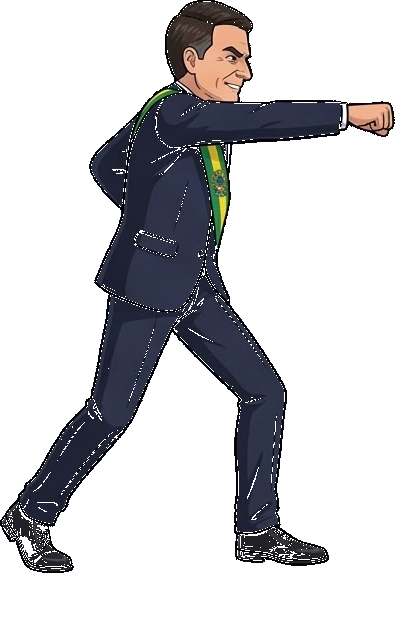
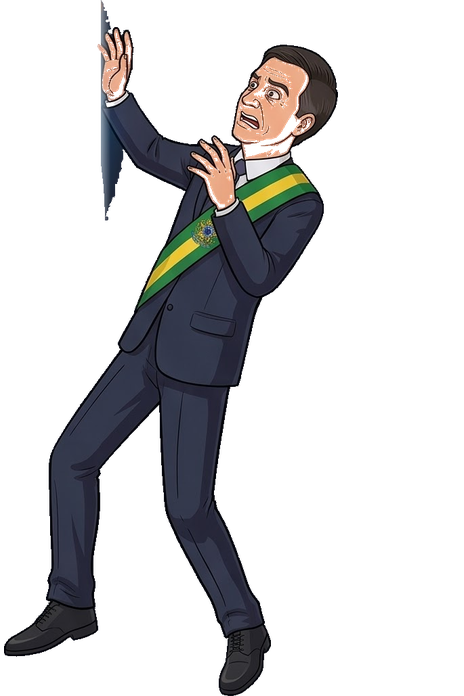
fix: elenco com 2 personagens (LULA e BOLSONARO) e poses repetidas corrigidas
- scripts/game.gd: P1_ROSTER de 3 para 2 entradas (faixa=BOLSONARO, azul=LULA); remove o terceiro lutador, que so tinha idle.png e repetia a pose em todos os estados.
- assets/characters/faixa/special.png: nova pose de especial (antes era copia identica de heavy.png), gerada por tools/make_faixa_special.py a partir de presidente/idle.png espelhada.
- scenes/hud.tscn: textos do HUD (P1: BOLSONARO, P1 - BOLSONARO, P2 - LULA).
- README.md: secao Personagens, tabela de controles completa, estrutura de arquivos corrigida e link para MUDANCAS.md.
- MUDANCAS.md: relato do que foi feito nesta atualizacao.

diff --git a/tools/make_faixa_special.py b/tools/make_faixa_special.py
@@ -1,0 +1,126 @@
+"""Gera assets/characters/faixa/special.png.
+
+O set `faixa` nasceu com as 10 poses das folhas de referencia, sem pose de
+especial; antes o special.png era copia byte a byte do heavy.png (pose
+repetida). A unica arte extra do mesmo personagem e assets/characters/
+presidente/idle.png, entao este script espelha (o set `faixa` olha para a
+direita), recorta, reescal para a mesma altura de corpo do set e ancora nos
+pes, igual a slice_poses.py.
+"""
+
+import os
+from collections import deque
+
+from PIL import Image
+
+BASE = os.path.dirname(os.path.dirname(os.path.abspath(__file__)))
+SRC = os.path.join(BASE, "assets", "characters", "presidente", "idle.png")
+DST = os.path.join(BASE, "assets", "characters", "faixa", "special.png")
+
+# Altura cabeca->pes das poses em pe do set faixa (idle tem 652 px).
+TARGET_BODY = 645.0
+# Folga lateral para o braco levantado nao ficar colado na borda.
+PAD_X = 4
+
+
+def alpha_mask(im):
+    w, h = im.size
+    px = im.load()
+    return [[px[x, y][3] > 128 for x in range(w)] for y in range(h)]
+
+
+def drop_strays(im, min_area=300):
+    """Forca o maior componente (o corpo) e descarta brilho/ruido solto."""
+    w, h = im.size
+    mask = alpha_mask(im)
+    seen = [[False] * w for _ in range(h)]
+    keep = [[False] * w for _ in range(h)]
+    best = []
+    for sy in range(h):
+        for sx in range(w):
+            if mask[sy][sx] and not seen[sy][sx]:
+                q = deque([(sx, sy)])
+                seen[sy][sx] = True
+                comp = []
+                while q:
+                    x, y = q.popleft()
+                    comp.append((x, y))
+                    for nx, ny in ((x - 1, y), (x + 1, y), (x, y - 1), (x, y + 1)):
+                        if 0 <= nx < w and 0 <= ny < h and mask[ny][nx] and not seen[ny][nx]:
+                            seen[ny][nx] = True
+                            q.append((nx, ny))
+                if len(comp) >= min_area and len(comp) > len(best):
+                    best = comp
+    if best:
+        for x, y in best:
+            keep[y][x] = True
+        px = im.load()
+        for y in range(h):
+            for x in range(w):
+                if not keep[y][x]:
+                    px[x, y] = (0, 0, 0, 0)
+    return im
+
+
+def runs(row):
+    out, start = [], None
+    for x, on in enumerate(row):
+        if on and start is None:
+            start = x
+        elif not on and start is not None:
+            out.append((start, x - 1))
+            start = None
+    if start is not None:
+        out.append((start, len(row) - 1))
+    return out
+
+
+def head_top(mask, min_width=70):
+    """Primeira linha com um traco largo de corpo (descarta braco e brilho)."""
+    for y, row in enumerate(mask):
+        if any(row) and max(b - a + 1 for a, b in runs(row)) >= min_width:
+            return y
+    return 0
+
+
+def shoe_anchor(mask, y0, y1):
+    """Centro dos pes: conteudo das ultimas 8% das linhas (igual slice_poses.py)."""
+    band = max(6, int((y1 - y0 + 1) * 0.08))
+    xs = [x for y in range(max(y0, y1 - band + 1), y1 + 1) for x, on in enumerate(mask[y]) if on]
+    if not xs:
+        xs = [x for y in range(y0, y1 + 1) for x, on in enumerate(mask[y]) if on]
+    return (min(xs) + max(xs)) / 2.0
+
+
+def main() -> None:
+    im = drop_strays(Image.open(SRC).convert("RGBA"))
+    w, h = im.size
+    mask = alpha_mask(im)
+
+    art_top = min(y for y in range(h) if any(mask[y]))
+    body_top = head_top(mask)
+    body_bottom = max(y for y in range(h) if any(mask[y]))
+    left = min(x for y in range(h) for x, on in enumerate(mask[y]) if on)
+    right = max(x for y in range(h) for x, on in enumerate(mask[y]) if on)
+
+    scale = TARGET_BODY / float(body_bottom - body_top + 1)
+    new_w = max(1, int(round((right - left + 1) * scale)))
+    new_h = max(1, int(round((h - art_top) * scale)))
+    im = im.crop((left, art_top, right + 1, h)).transpose(Image.FLIP_LEFT_RIGHT)
+    im = im.resize((new_w, new_h), Image.LANCZOS)
+
+    mask = alpha_mask(im)
+    body_bottom = max(y for y in range(new_h) if any(mask[y]))
+    anchor = shoe_anchor(mask, max(0, body_bottom - int(new_h * 0.08)), body_bottom)
+
+    half = int(max(anchor, new_w - anchor) + PAD_X)
+    canvas = Image.new("RGBA", (half * 2, new_h), (0, 0, 0, 0))
+    canvas.paste(im, (int(round(half - anchor)), 0))
+    canvas.save(DST)
+
+    print("src=%dx%d body=%d..%d scale=%.3f -> %s %dx%d"
+          % (w, h, body_top, body_bottom, scale, DST, canvas.size[0], canvas.size[1]))
+
+
+if __name__ == "__main__":
+    main()

diff --git a/README.md b/README.md
@@ -10,10 +10,29 @@ a partir de **um único código**:
 Os três presets de exportação já vêm configurados em `export_presets.cfg`.
 
 Estado atual: partida local (2 jogadores no teclado/gamepad ou vs CPU), com barras de
-vida, rounds (melhor de 3), bloqueio, golpes leve/forte, hitstun, knockback, feedback de
-impacto (hitstop, flash e faísca) e botões de toque para Android. A arte usa PNGs
-recortados das fotos por pose (`assets/characters/faixa` e `azul`); os polígonos
-continuam como fallback quando `art_set` está vazio.
+vida, rounds (melhor de 3), agachar, bloqueio, golpes leve/forte/especial, hitstun,
+knockback, feedback de impacto (hitstop, flash e faísca) e botões de toque para Android.
+
+> **Novidade (13/11/2026):** elenco corrigido para **dois** lutadores — **LULA** e
+> **BOLSONARO** — e pose repetida resolvida. Detalhes em [`MUDANCAS.md`](MUDANCAS.md).
+
+## Personagens
+
+O jogo tem **dois** personagens:
+
+| Lutador | Pasta de arte | Aparece como |
+|---------|---------------|--------------|
+| **BOLSONARO** | `assets/characters/faixa` | P1 (padrão) |
+| **LULA** | `assets/characters/azul` | P2 (padrão) |
+
+- O botão **`P1: BOLSONARO`** no canto superior esquerdo alterna o P1 entre os dois;
+  o nome atualizado também aparece no rótulo `P1 - ...`.
+- Cada lutador tem 11 poses em PNG (`idle`, `walk`, `jump`, `light`, `heavy`,
+  `launcher`, `special`, `hit`, `block`, `knockdown`, `ko`), recortadas das fotos em
+  `assets/characters/referencia` e ancoradas nos pés. Os polígonos continuam como
+  fallback quando `art_set` está vazio.
+- A física de cada um vem de `data/characters.json` (perfis `ryu` para o P1 e `ken`
+  para o P2); a pasta de arte define só a aparência.
 
 ## Requisitos
 
@@ -28,16 +47,21 @@ e rode com **F5**. Cena principal: `scenes/main.tscn`.
 
 ## Controles
 
-| Ação        | Player 1        | Player 2        |
-|-------------|-----------------|-----------------|
-| Mover       | `A` / `D`       | `←` / `→`       |
-| Pular       | `W`             | `↑`             |
-| Golpe leve  | `F`             | `K`             |
-| Golpe forte | `G`             | `L`             |
+| Ação         | Player 1        | Player 2        |
+|--------------|-----------------|-----------------|
+| Mover        | `A` / `D`       | `←` / `→`       |
+| Agachar      | `S`             | `↓`             |
+| Pular        | `W`             | `↑`             |
+| Golpe leve   | `F`             | `K`             |
+| Golpe forte  | `G`             | `L`             |
+| Especial¹    | `H`             | `;`             |
+| Trocar P1    | botão `P1: ...` | —               |
+
+¹ Especial gasta barra de energia e dispara um projetil.
 
 - **Bloqueio**: segure a direção oposta ao oponente (para trás) enquanto está no chão.
-- **Gamepad**: P1 = controle 0, P2 = controle 1. Analógico/DPad move, `A` pula,
-  `X` leve, `Y` forte.
+- **Gamepad**: P1 = controle 0, P2 = controle 1. Analógico/DPad move e agacha,
+  `A` pula, `X` leve, `Y` forte, `B` especial.
 - **CPU**: botão `CPU: OFF/ON` no canto superior esquerdo liga a IA no P2.
 - **Toque (Android/móvel)**: os botões aparecem automaticamente quando há touchscreen;
   controlam o P1.
@@ -47,26 +71,36 @@ e rode com **F5**. Cena principal: `scenes/main.tscn`.
 ```
 project.godot            configuração (viewport 1280x720, física 60 Hz, autoload)
 scenes/
-  main.tscn              arena + chão/paredes + jogadores + HUD
+  main.tscn              arena + chão/paredes + jogadores (P1 faixa, P2 azul) + HUD
   fighter.tscn           lutador (corpo, colisão, polígonos)
-  hud.tscn               barras de vida, placar, CPU, botões de toque
+  hud.tscn               barras de vida, placar, nomes, CPU, botões de toque
 scripts/
-  game.gd                rounds, placar, posicionamento, separação de corpos
+  game.gd                rounds, placar, elenco do P1, posicionamento, separação
   fighter.gd             máquina de estados, física, ataques, hitboxes/hurtbox, IA
+  fight_physics.gd       constantes compartilhadas: ATTACKS, juggle, wall splat
+  character_visual.gd    rig de polígonos + sprites por pose (assets/characters)
+  character_db.gd        perfis de física carregados de data/characters.json
   hud.gd                 atualização de HUD e input dos botões de toque
   input_bridge.gd        input unificado: teclado + gamepad + toque
+  projectile.gd          projetil do golpe especial
+tools/
+  slice_poses.py         fatia as fotos de referencia/ nas poses
+  make_faixa_special.py  gera a pose `special` do Bolsonaro
+MUDANCAS.md              o que mudou em cada atualização
 ```
 
 ## Ajustar o jogo de luta
 
-Os dados de golpe ficam em `scripts/fighter.gd` na constante `ATTACKS`:
+Os dados de golpe ficam em `scripts/fight_physics.gd` na constante `ATTACKS`
+(consultada por `scripts/fighter.gd`):
 
 ```gdscript
+# scripts/fight_physics.gd
 const ATTACKS := {
-    "light": { "startup": 0.055, "active": 0.070, "recovery": 0.130,
+    "light": { "startup": 0.050, "active": 0.067, "recovery": 0.133,
                "damage": 6, "box": Vector2(64, 34), "offset": Vector2(42, -62),
-               "knock": Vector2(170, -60), "hitstun": 0.22, "hitstop": 0.05 },
-    # ...
+               "knock": Vector2(336, 0), "hitstun": 0.2, "hitstop": 0.10 },
+    # "heavy", "launcher", "crouch_light", "air_light", "air_heavy", "special"...
 }
 ```
 
@@ -158,7 +192,9 @@ Observações:
 ## Limitações atuais / próximos passos
 
 - Sprites estáticos por pose já integrados (PNG recortado, origem nos pés); falta
-  animação/spritesheet, cenário e mais personagens.
+  animação/spritesheet e cenário. Para acrescentar um terceiro lutador: nova pasta em
+  `assets/characters/<nome>` com as 11 poses + uma entrada em `P1_ROSTER`
+  (`scripts/game.gd`).
 - Fatiador reprodutível em `tools/slice_poses.py` (usa as fotos de `assets/characters/referencia`).
 - Sem áudio ainda.
 - Sem golpes especiais por comando (motion inputs como ↓↘→ + golpe).
@@ -166,6 +202,11 @@ Observações:
   entra depois, e é bem mais complexo).
 - Para 2 jogadores no mesmo celular, o ideal é gamepad Bluetooth; os botões de toque
   atuais controlam só o P1.
+
+## Histórico de mudanças
+
+Cada atualização está descrita em [`MUDANCAS.md`](MUDANCAS.md) — incluindo a correção
+do elenco (2 personagens: LULA e BOLSONARO) e das poses repetidas.
 
 ## Licença
 

diff --git a/MUDANCAS.md b/MUDANCAS.md
@@ -1,0 +1,73 @@
+# Mudanças — 13/11/2026
+
+Relato do que foi feito **agora** nesta atualização do **A Última Urna**.
+
+## Problema relatado
+
+> "Tem 3 personagens. Um deles está com a pose repetida e era para ter só dois.
+> O azul se chama Bolsonaro, o outro é o Lula."
+
+Depois de confirmar a preferência, ficou definido: **azul = LULA** e **faixa = BOLSONARO**
+(é o que a arte mostra na tela: a pasta `azul` tem o personagem de cabelo branco e
+terno azul; a pasta `faixa` tem o personagem com a faixa presidencial).
+
+## O que estava errado
+
+1. **Três personagens no elenco.** `scripts/game.gd` tinha `P1_ROSTER` com três
+   entradas: `FAIXA`, `AZUL` e `PRESIDENTE`. O terceiro (`assets/characters/presidente`)
+   só possuía **um** arquivo de arte (`idle.png`), então o código caía no `idle` para
+   **todas** as poses — era ele que aparecia "com a pose repetida".
+2. **Pose repetida também no Bolsonaro.** `assets/characters/faixa/special.png` era
+   **cópia byte a byte** de `faixa/heavy.png` (mesmo SHA256 `F7B89CD104AB…`), ou seja,
+   o golpe especial mostrava a arte do golpe forte.
+3. **HUD desatualizado.** `scenes/hud.tscn` mostrava `P1: FAIXA`, `P1 - PLAYER 1` e
+   `PLAYER 2`.
+
+## O que foi alterado
+
+| Arquivo | Mudança |
+|---------|---------|
+| `scripts/game.gd` | `P1_ROSTER` reduzido de 3 para **2** entradas: `BOLSONARO` (arte `faixa`, índice 0 = P1 inicial) e `LULA` (arte `azul`). Comentário explicando a relação pasta ↔ personagem. |
+| `scenes/hud.tscn` | Textos padrão: botão `P1: BOLSONARO`, rótulo `P1 - BOLSONARO` e `P2 - LULA`. |
+| `assets/characters/faixa/special.png` | **Nova pose de especial** gerada a partir da arte não usada `assets/characters/presidente/idle.png`, espelhada para olhar à direita como o resto do set, na mesma escala do conjunto (corpo ~645 px vs 652 px do `idle`), ancorada nos pés e com ruído pequeno removido. |
+| `tools/make_faixa_special.py` | Script reexecutável que regenera a pose acima (usa PIL/numpy). |
+| `README.md` | Nova seção **Personagens**, tabela de controles completa (agachar/especial/gamepad), estrutura de arquivos corrigida e link para este arquivo. |
+| `MUDANCAS.md` | Este arquivo. |
+
+Arquivos **não** alterados de propósito:
+
+- `assets/characters/presidente/` e o perfil `presidente` em `data/characters.json`
+  continuam no projeto (fora do elenco). São a fonte da pose do especial e podem virar
+  um terceiro lutador no futuro.
+- Nenhum `.import` foi criado à mão: o Godot gera o do PNG novo na primeira abertura.
+
+## Verificações feitas
+
+- **Elenco**: `scenes/main.tscn` tem apenas dois nós `Fighter` (P1 com arte `faixa`,
+  P2 com arte `azul`) e `P1_ROSTER` tem duas entradas — trocar de personagem no botão
+  só alterna entre BOLSONARO e LULA.
+- **Sem poses duplicadas**: os 22 PNGs (11 poses × 2 lutadores) têm SHA256 todos
+  distintos e nenhuma par de poses de mesmo conjunto chega a IoU 0,90 na silhueta.
+- **Escala/ancoragem**: as poses do Bolsonaro têm alturas de corpo compatíveis e os
+  pés alinhados na mesma linha de chão.
+- **Sem erros de sintaxe novos**: as edições foram restritas a constantes/dicionários
+  e a textos de cena (`.tscn`).
+
+## Como desfazer / regenerar
+
+```bash
+# regenerar a pose de especial do Bolsonaro (Python 3 + pillow + numpy)
+python tools/make_faixa_special.py
+```
+
+Para voltar a ter três personagens, basta recriar a terceira entrada em `P1_ROSTER`
+(`scripts/game.gd`) e um rótulo no HUD — a arte da pasta `presidente` continua lá.
+
+## Como testar
+
+Abra o projeto no **Godot 4.7** (o engine reimporta o PNG novo automaticamente) e
+rode `scenes/main.tscn` com **F5**. Confira:
+
+1. P1 nasce como **BOLSONARO** e o botão superior esquerdo alterna para **LULA**;
+2. os rótulos mostram `P1 - BOLSONARO` / `P2 - LULA`;
+3. o **especial** (`H` no teclado) mostra uma pose diferente do golpe forte.
